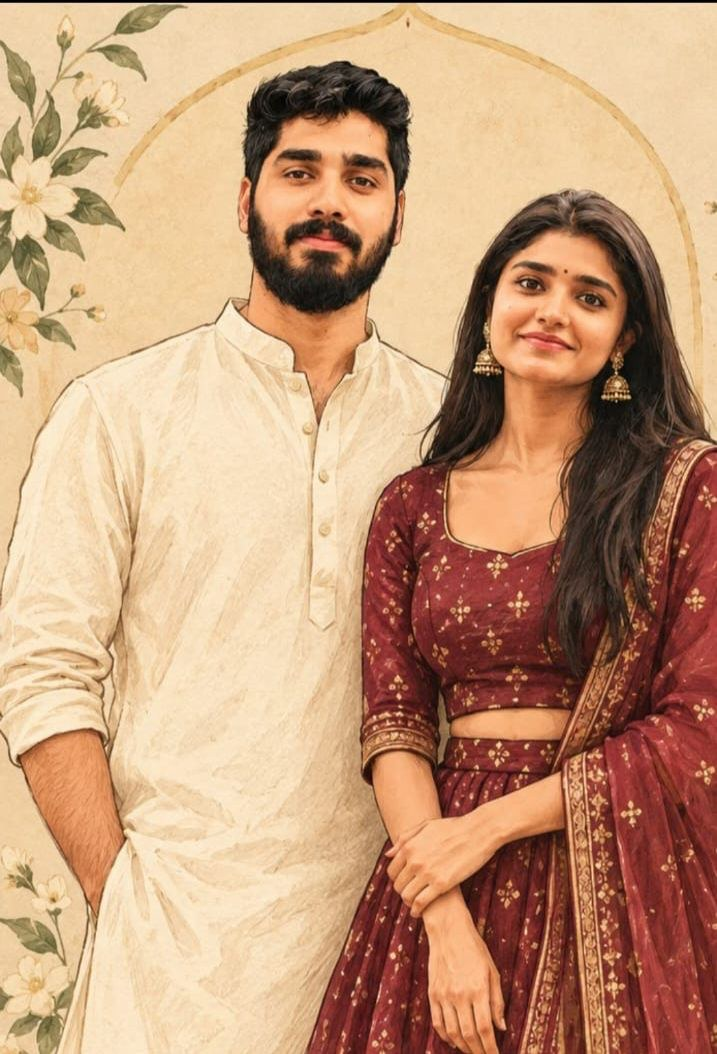
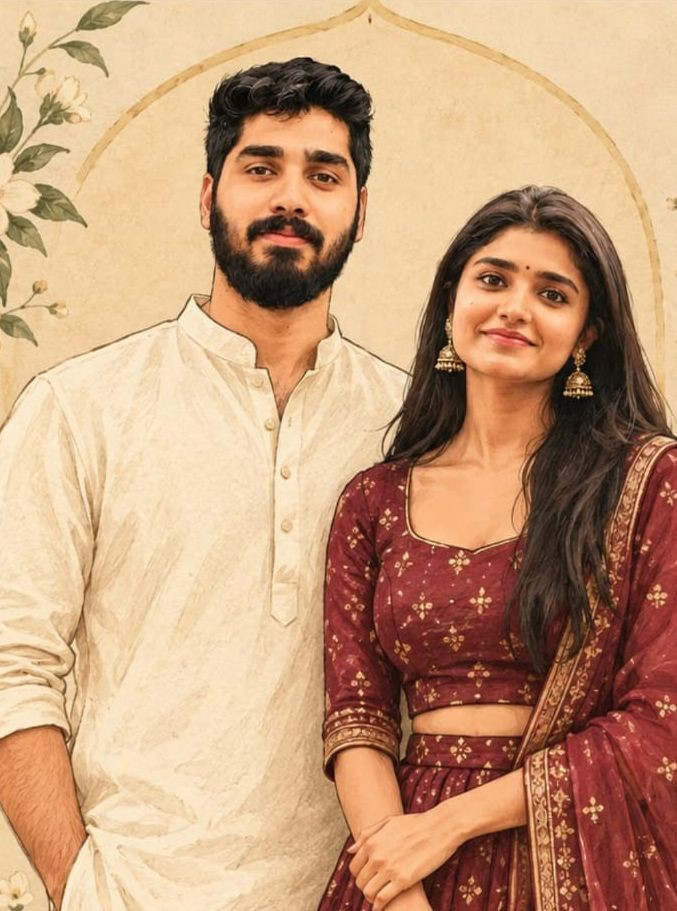
Update og-preview.jpg with new preview image (677x911, optimized JPEG)

diff --git a/index.html b/index.html
@@ -19,8 +19,8 @@
   <meta property="og:image" content="https://arjun-navami.vercel.app/og-preview.jpg">
   <meta property="og:image:secure_url" content="https://arjun-navami.vercel.app/og-preview.jpg">
   <meta property="og:image:type" content="image/jpeg">
-  <meta property="og:image:width" content="717">
-  <meta property="og:image:height" content="1054">
+  <meta property="og:image:width" content="677">
+  <meta property="og:image:height" content="911">
   <meta property="og:image:alt" content="Arjun &amp; Navami Wedding Invitation">
 
   <!-- Schema.org microdata (WhatsApp, Google, messaging bots) -->

diff --git a/wedding-invitation.html b/wedding-invitation.html
@@ -19,8 +19,8 @@
   <meta property="og:image" content="https://arjun-navami.vercel.app/og-preview.jpg">
   <meta property="og:image:secure_url" content="https://arjun-navami.vercel.app/og-preview.jpg">
   <meta property="og:image:type" content="image/jpeg">
-  <meta property="og:image:width" content="717">
-  <meta property="og:image:height" content="1054">
+  <meta property="og:image:width" content="677">
+  <meta property="og:image:height" content="911">
   <meta property="og:image:alt" content="Arjun &amp; Navami Wedding Invitation">
 
   <!-- Schema.org microdata (WhatsApp, Google, messaging bots) -->
